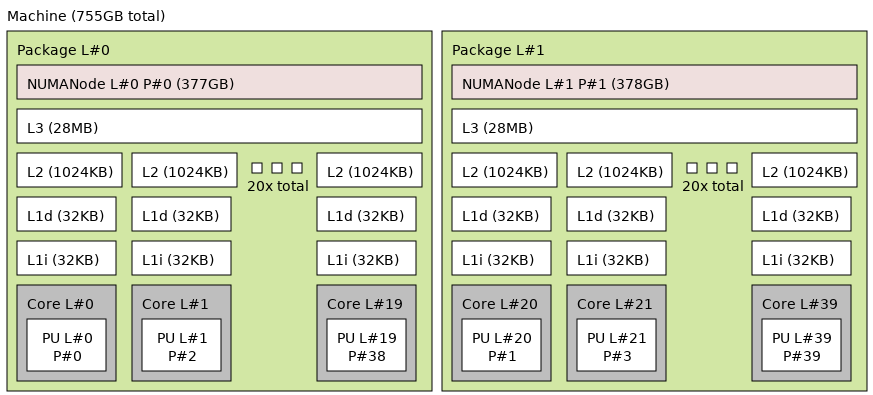
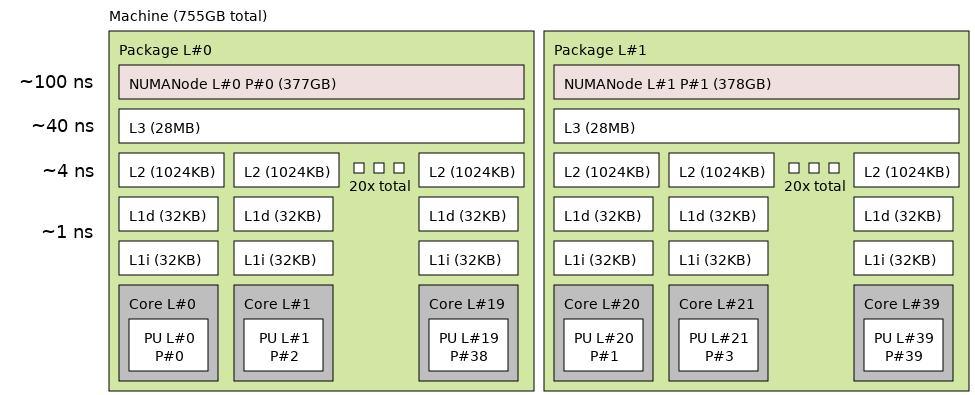
32: move network stuff up to bring up bandwidth/latency early

diff --git a/32_IntroToHPC/main.md b/32_IntroToHPC/main.md
@@ -50,11 +50,6 @@ Activities where participants all actively work to foster an environment which e
 
 ## Supercomputing terminology
 
-<!-- - stress that goal of a cluster is distributing computational load over multiple devices with a -->
-<!--   gradient/discontinuity of how fast they can talk to each other as you scale up in devices -->
-<!-- - numa is that things live in neighborhoods and it takes time to go between neighborhoods -->
-<!-- - maybe simd? re: GPU -->
-
 
 ## Cluster
 <div style="display: flex;">
@@ -70,6 +65,17 @@ Activities where participants all actively work to foster an environment which e
   </ul>
 </ul>
 </div>
+
+
+### Network/fabric
+- Network/fabric - the means of communication between nodes
+  - Communication lines usually fiber/copper/wireless
+- Latency -- time between sending and receiving messages
+- Bandwidth -- Rate data can be transferred
+- Some rough "typical" numbers
+  - WiFi -- 1ms -- \~0.1-1 Gbit/s
+  - Ethernet -- 0.1ms -- \~1-40 Gbit/s
+  - Infiniband -- 0.001ms -- \~100-800 Gbit/s
 
 
 ### Compute nodes
@@ -94,14 +100,13 @@ Activities where participants all actively work to foster an environment which e
   - CPU Core -- a single physical CPU on a multi-core CPU
   - Cores have their own _cache_ but also share _cache_ directly with other cores
   - Cores typically slower than laptop/workstation cores, but more of them and more cache/RAM
-- One or more network cards (more later!)
 
 
 ### Compute node architecture -- `lstopo`
 - Cores also sometimes have extra groupings in `NUMA` (non-uniform memory architecture) domains
-  - beyond scope today, but good to know
   - Tells what hardware has direct access to what memory
-- `lstopo --no-io` on FI `skylake` node
+  - Automatic internal "fabric" with different latencies/bandwidth
+  - `lstopo --no-io` on FI `skylake` node
 <center>
     <img src="./assets/skylake-topo.png" height="300px">
 </center>
@@ -120,17 +125,6 @@ Activities where participants all actively work to foster an environment which e
   <li> e.g. large dense linear algebra problems
   </ul>
 </ul>
-
-
-### Network/fabric
-- Network/fabric - the means of communication between computers
-  - Communication lines usually fiber/copper/wireless
-- Latency -- time between sending and receiving messages
-- Bandwidth -- Rate data can be transferred
-- Some rough "typical" numbers
-  - WiFi -- 1ms -- \~0.1-1 Gbit/s
-  - Ethernet -- 0.1ms -- \~1-40 Gbit/s
-  - Infiniband -- 0.001ms -- \~100-800 Gbit/s
 
 
 ### Filesystems
